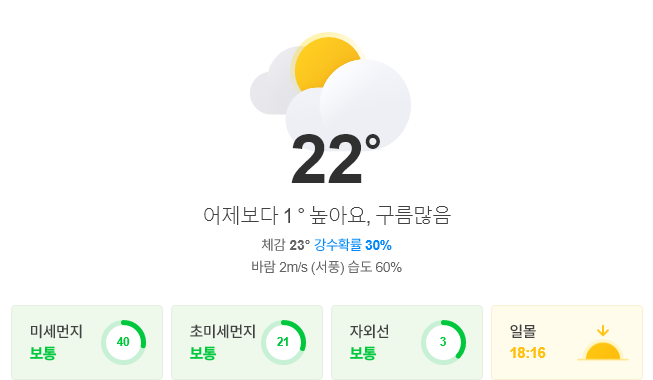
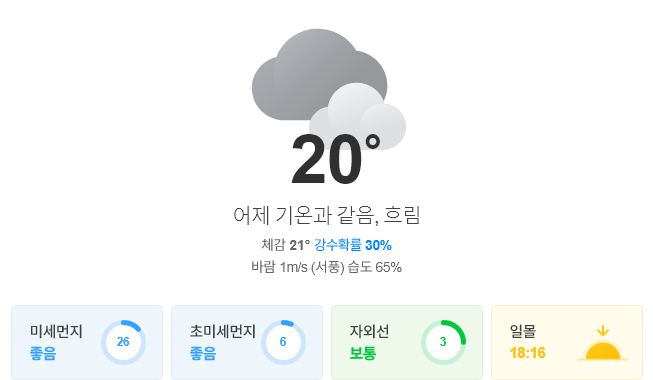
update result

diff --git a/README.md b/README.md
@@ -1,5 +1,5 @@
-##  2020-10-01 16:02:35   목요일 
-##### 날씨   -   어제보다 1 ° 높아요, 구름많음
+##  2020-10-01 18:05:41   목요일 
+##### 날씨   -   어제 기온과 같음, 흐림
 <center><img src="../img/naver_weather_week.png"></center>
 ----
 ----
@@ -17,7 +17,7 @@
 <tr align = "right" > <td>NASDAQ</td><td>11,167.51</td><td>82.26</td><td><font size="3" color="red" >0.74%</font></td><td><font size="3" color="black">0</font></td><td><font size="3" color="black">0</font></td><td>0</td>  </tr>
 <tr align = "right" > <td>S&P</td><td>3,363.0</td><td>27.53</td><td><font size="3" color="red" >0.83%</font></td><td><font size="3" color="black">0</font></td><td><font size="3" color="black">0</font></td><td>0</td>  </tr>
 <tr align = "right" > <td>SHANHAI</td><td>3,218.05</td><td>-6.31</td><td><font size="3" color="blue" >-0.2%</font></td><td><font size="3" color="black">0</font></td><td><font size="3" color="black">0</font></td><td>0</td>  </tr>
-<tr align = "right" > <td>INDIA</td><td>38,643.19</td><td>575.26</td><td><font size="3" color="red" >1.51%</font></td><td><font size="3" color="black">0</font></td><td><font size="3" color="black">0</font></td><td>0</td>  </tr>
+<tr align = "right" > <td>INDIA</td><td>38,706.95</td><td>639.02</td><td><font size="3" color="red" >1.68%</font></td><td><font size="3" color="black">0</font></td><td><font size="3" color="black">0</font></td><td>0</td>  </tr>
 </table>
 ----
 ##### 시장
